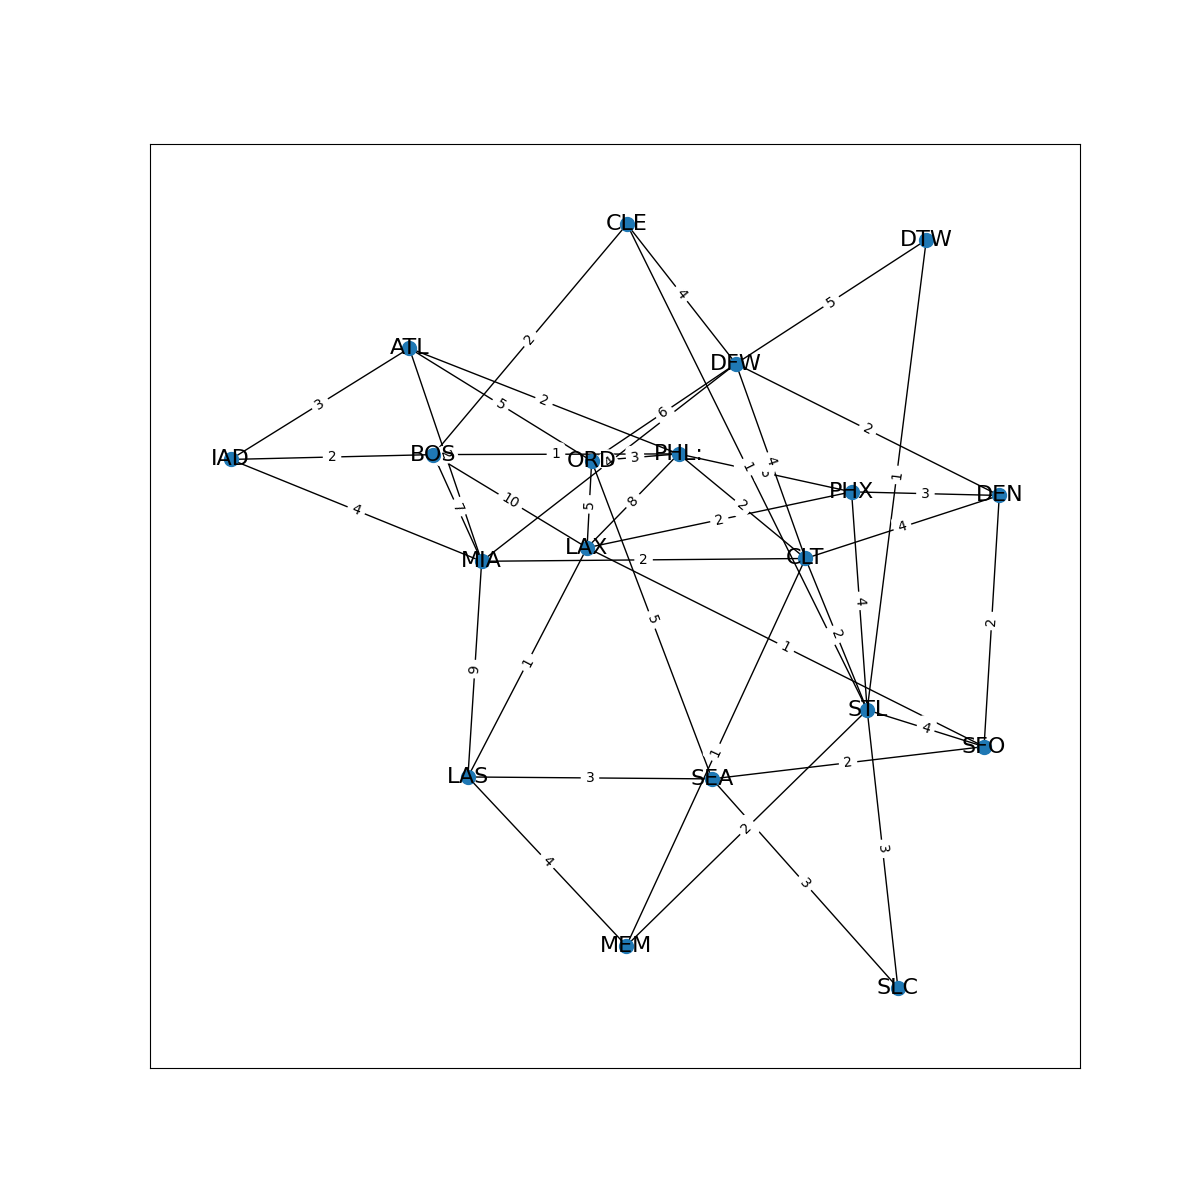
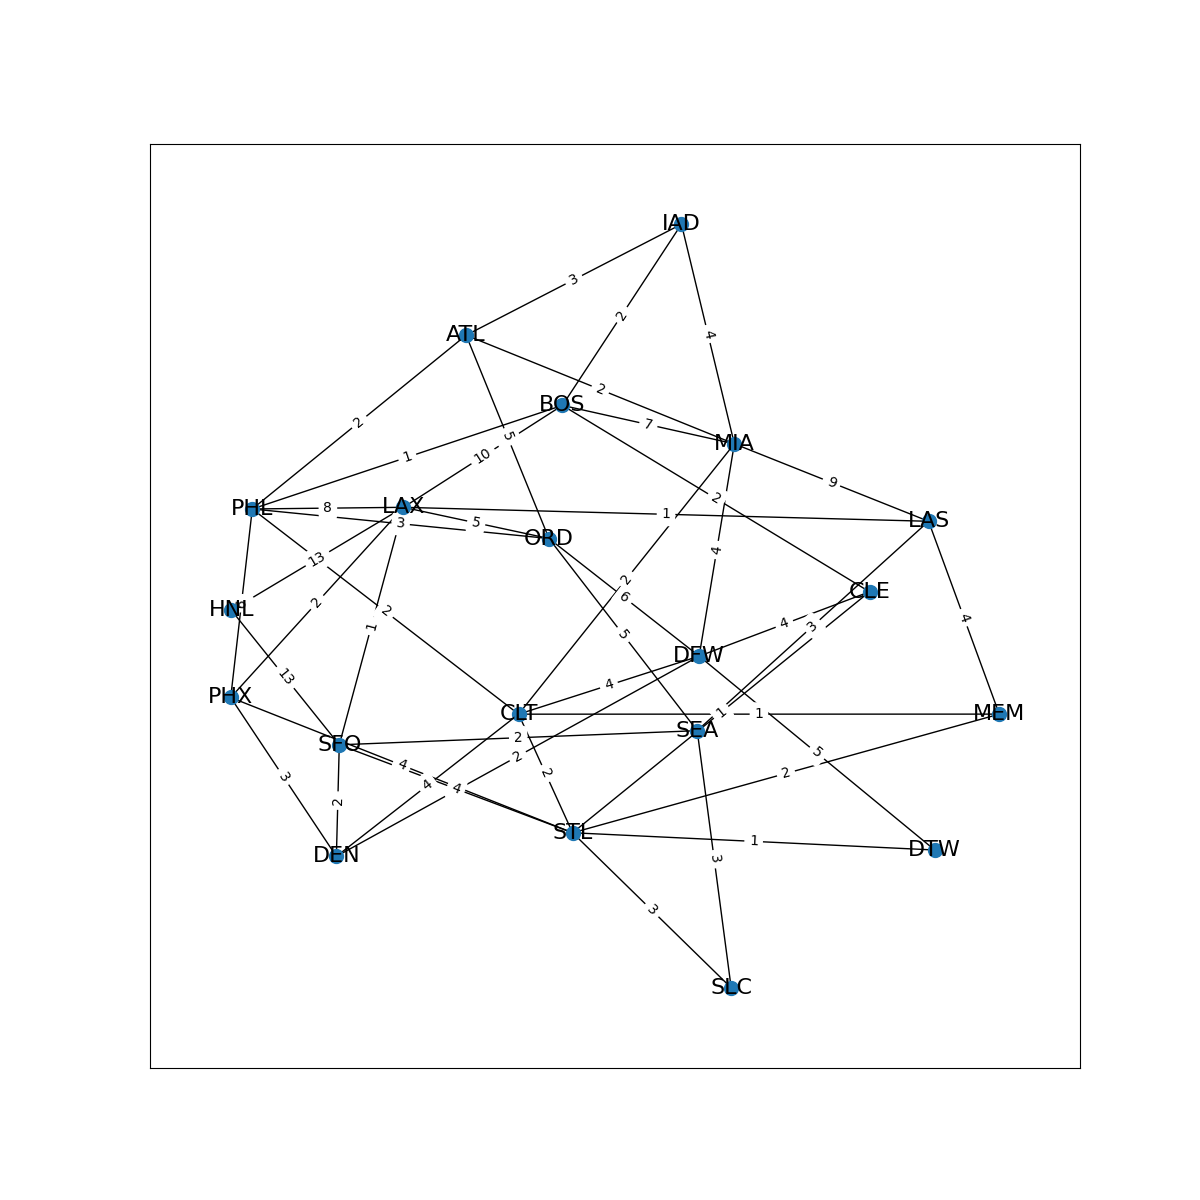
added set up for sssp to .md

diff --git a/djikstras.py b/djikstras.py
@@ -1,6 +1,6 @@
 import networkx as nx
 import matplotlib.pyplot as plt
-graph = {"PHL:":{"LAX": {'weight': 8}, "CLT": {'weight': 2}, "PHX":{'weight': 6},
+graph = {"PHL":{"LAX": {'weight': 8}, "CLT": {'weight': 2}, "PHX":{'weight': 6},
                 "ORD": {'weight': 3},"ATL":{'weight':2},"BOS":{"weight":1}},
           "CLT": {"MIA":{"weight":2},"STL":{"weight":2},"DFW":{"weight":4},
                   "MEM":{"weight":1},"DEN":{"weight":4}},
@@ -16,21 +16,28 @@ graph = {"PHL:":{"LAX": {'weight': 8}, "CLT": {'weight': 2}, "PHX":{'weight': 6}
           "MIA":{"ATL":{"weight":2},"IAD":{"weight":4},"BOS":{"weight":7}},
           "STL":{"MEM":{"weight":2},"SLC":{"weight":3}, "DTW":{"weight":1},
                  "CLE":{"weight":1}},
-          "BOS":{"LAX":{"weight":10},"CLE":{"weight":5},"CLE":{"weight":2}}
+          "BOS":{"LAX":{"weight":10},"CLE":{"weight":5},"CLE":{"weight":2}},
+          "HNL": {"LAX":{"weight":13},"SFO":{"weight":13}}
           }
 G = nx.from_dict_of_dicts(graph)
 
-pos = nx.spring_layout(G,k=0.05, seed=13)
+pos = nx.shell_layout(G)
 labels = nx.get_edge_attributes(G,'weight')
 plt.figure(1,figsize=(12,12)) 
 nx.draw_networkx(G,pos, node_size=100, font_size=16)
 nx.draw_networkx_edge_labels(G,pos,edge_labels=labels)
-plt.savefig("graph_for_djikstras.png")
+plt.savefig("graph_for_djikstras_shell.png")
 
-djiksras = nx.algorithms.shortest_path(G,source='PHL',target='SEA', weight='weight', method='dijkstra')
-pos = nx.spring_layout(djiksras,k=0.05, seed=13)
-labels = nx.get_edge_attributes(G,'weight')
-plt.figure(1,figsize=(12,12)) 
-nx.draw_networkx(G,pos, node_size=100, font_size=16)
-nx.draw_networkx_edge_labels(G,pos,edge_labels=labels)
-plt.savefig("shortest_path.png")
+# djiksras = nx.algorithms.shortest_path(G,source="PHL",target="ORD", weight='weight', method='dijkstra')
+# pos = nx.spring_layout(djiksras,k=0.05, seed=13)
+# labels = nx.get_edge_attributes(G,'weight')
+# plt.figure(1,figsize=(12,12)) 
+# nx.draw_networkx(djiksras,pos, node_size=100, font_size=16)
+# nx.draw_networkx_edge_labels(djiksras,pos,edge_labels=labels)
+# plt.savefig("shortest_path.png")
+
+djikstra = nx.dijkstra_path(G,"PHL","SEA")
+pos = nx.spring_layout(G)
+h = G.subgraph(djikstra)
+nx.draw_networkx_nodes(djikstra,pos=pos)
+nx.draw_networkx_edges(djikstra,pos=pos)

diff --git a/index.md b/index.md
@@ -35,7 +35,7 @@ company wants to pick routes such that the bus drives on the shortest road to ge
 >  * the destinations themselves.
 >  * Output: minimum spanning tree of tourist destinations
 
-**Graph Problem/Algorithm**: [DFS/BFS/SSSP/APSP/MST]
+**Graph Problem/Algorithm**: MST
 
 
 **Setup code**:
@@ -58,6 +58,69 @@ for edge in edges:
 
 ![Image goes here](Relative image filename goes here)
 
+**Solution code:**
+
+```python
+solution = nx.minimum_spanning_tree(destinations,algorithm="prim",data=False)
+print(solution.edges(data=True))
+
+```
+
+**Output**
+edgelist = list(solution)
+```
+```
+
+**Interpretation of Results**:
+
+# Travel Company Troubles
+**Informal Description**: 
+A travel company wants to streamline what flights they give to their customers. After too many complaints about 
+giving long travel days to their clients, they want to now send people to their destination the quickest way.
+Regardless of how, they want to send their clients to the destination as fast as they can.
+
+> **Formal Description**:
+>  * Input: An undirected graph of airports, edges being flight paths that connect terminals,vertices are 
+>  * the airports themselves.
+>  * Output: The shortest path from the source to the final destination
+**Graph Problem/Algorithm**: SSSP
+
+
+**Setup code**:
+
+```python
+import networkx as nx
+import matplotlib.pyplot as plt
+graph = {"PHL":{"LAX": {'weight': 8}, "CLT": {'weight': 2}, "PHX":{'weight': 6},
+                "ORD": {'weight': 3},"ATL":{'weight':2},"BOS":{"weight":1}},
+          "CLT": {"MIA":{"weight":2},"STL":{"weight":2},"DFW":{"weight":4},
+                  "MEM":{"weight":1},"DEN":{"weight":4}},
+          "PHX": {"LAX": {'weight': 2},"DEN":{"weight":3},"STL":{"weight":4}},
+          "ORD": {"LAX": {"weight": 5},"DFW":{"weight":6}, "ATL":{"weight":5}},
+          "IAD": {"BOS":{"weight":2},"ATL":{"weight":3}},
+          "SEA": {"LAS": {'weight': 3}, "SFO":{'weight':2}, "SLC":{"weight":3},
+                  "ORD":{'weight':5}},
+          "LAS": {"LAX":{"weight":1}, "MIA":{"weight":9},"MEM":{"weight":4}},
+          "SFO":{"LAX":{"weight":1},"DEN":{'weight':2},"STL":{"weight":4},},
+          "DFW":{"DEN":{"weight":2},"MIA":{"weight":4},"DTW":{"weight":5},
+                 "CLE":{"weight":4}},
+          "MIA":{"ATL":{"weight":2},"IAD":{"weight":4},"BOS":{"weight":7}},
+          "STL":{"MEM":{"weight":2},"SLC":{"weight":3}, "DTW":{"weight":1},
+                 "CLE":{"weight":1}},
+          "BOS":{"LAX":{"weight":10},"CLE":{"weight":5},"CLE":{"weight":2}},
+          "HNL": {"LAX":{"weight":13},"SFO":{"weight":13}}
+          }
+G = nx.from_dict_of_dicts(graph)
+
+pos = nx.shell_layout(G)
+labels = nx.get_edge_attributes(G,'weight')
+plt.figure(1,figsize=(12,12)) 
+nx.draw_networkx(G,pos, node_size=100, font_size=16)
+nx.draw_networkx_edge_labels(G,pos,edge_labels=labels)
+```
+**Visualization**:
+
+graph_for_djikstras_shell.png
 **Solution code:**
 
 ```python
